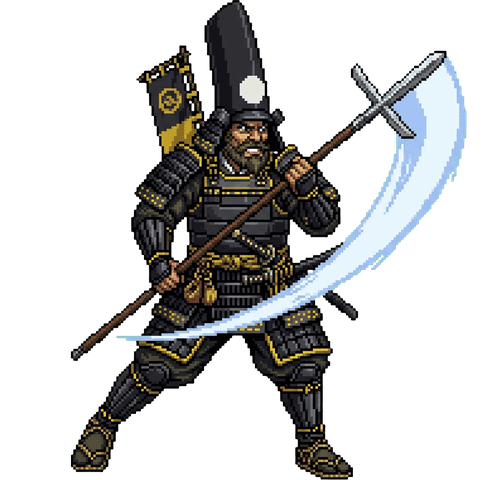
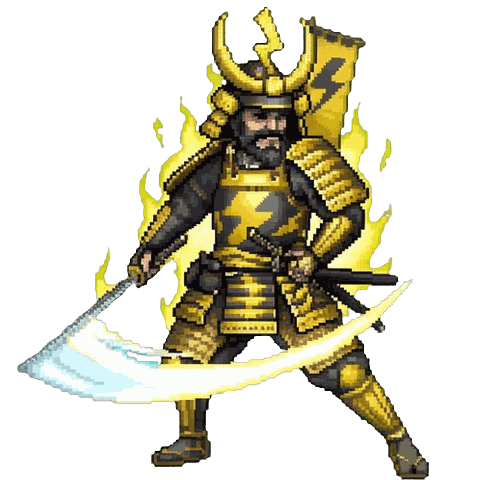
v192 이순신 새 장수 3명 그림 · 사방신·광개토대왕 기본 공격·큰 마법 동작

diff --git a/index.html b/index.html
@@ -26,7 +26,7 @@
 <link rel="stylesheet" href="https://fonts.googleapis.com/css2?family=Noto+Serif+KR:wght@900&text=%E6%A5%9A%E6%BC%A2%E8%BB%8A%E5%8C%85%E9%A6%AC%E8%B1%A1%E5%A3%AB%E5%8D%92%E5%85%B5&display=swap">
 <!--HEAD-END-->
 <!-- ?v= 숫자: 업데이트할 때마다 sw.js 의 VERSION 과 함께 1씩 올리기 (브라우저가 옛 파일을 쓰지 않도록) -->
-<link rel="stylesheet" href="css/style.css?v=191">
+<link rel="stylesheet" href="css/style.css?v=192">
 <!-- 앱 설치(PWA) -->
 <link rel="manifest" href="manifest.webmanifest">
 <meta name="theme-color" content="#161C3A">
@@ -99,8 +99,8 @@
       <input id="su-pw2" name="password2" type="password" autocomplete="new-password" required>
       <span class="lbl-like">기본 아바타 <small>나중에 상점에서 바꿀 수 있어요</small></span>
       <div class="gpick" id="suGender" role="radiogroup" aria-label="기본 아바타">
-        <button type="button" role="radio" aria-checked="false" data-g="m"><img src="avatar/body/s1_m_f.png?v=191" alt="" width="54" height="117"><b>남자</b></button>
-        <button type="button" role="radio" aria-checked="false" data-g="f"><img src="avatar/body/s1_f_f.png?v=191" alt="" width="53" height="115"><b>여자</b></button>
+        <button type="button" role="radio" aria-checked="false" data-g="m"><img src="avatar/body/s1_m_f.png?v=192" alt="" width="54" height="117"><b>남자</b></button>
+        <button type="button" role="radio" aria-checked="false" data-g="f"><img src="avatar/body/s1_f_f.png?v=192" alt="" width="53" height="115"><b>여자</b></button>
       </div>
       <p class="err" id="signupErr" hidden></p>
       <button class="btn btn-primary btn-block" type="submit">가입하고 시작하기</button>
@@ -123,91 +123,91 @@
 <!-- Supabase 연결 시 사용 (config.js가 비어 있으면 체험 모드) -->
 <script src="https://cdn.jsdelivr.net/npm/@supabase/supabase-js@2.117.3/dist/umd/supabase.js"></script>
 <!-- 순서 중요: 설정 → 공통 → 아바타 → 로그인/전적 → 게임(장르 폴더별 settings.js + game.js) → 화면 -->
-<script src="js/config.js?v=191"></script>
-<script src="games/common/shared.js?v=191"></script>
-<script src="avatar/avatar.js?v=191"></script>
-<script src="js/furniture.js?v=191"></script>
-<script src="js/filter.js?v=191"></script>
-<script src="js/gamehub.js?v=191"></script>
-<script src="js/banner.js?v=191"></script>
-<script src="js/presence.js?v=191"></script>
-<script src="games/puzzle/blocks/settings.js?v=191"></script>
-<script src="games/puzzle/blocks/game.js?v=191"></script>
-<script src="games/puzzle/battle/settings.js?v=191"></script>
-<script src="games/puzzle/battle/game.js?v=191"></script>
-<script src="games/puzzle/p512/settings.js?v=191"></script>
-<script src="games/puzzle/p512/game.js?v=191"></script>
-<script src="games/puzzle/ultimate/settings.js?v=191"></script>
-<script src="games/puzzle/ultimate/game.js?v=191"></script>
-<script src="games/puzzle/2048/settings.js?v=191"></script>
-<script src="games/puzzle/2048/game.js?v=191"></script>
-<script src="games/arcade/snake/settings.js?v=191"></script>
-<script src="games/arcade/snake/game.js?v=191"></script>
-<script src="games/arcade/dodge/settings.js?v=191"></script>
-<script src="games/arcade/dodge/game.js?v=191"></script>
-<script src="games/common/board.js?v=191"></script>
-<script src="games/board/baduk/settings.js?v=191"></script>
-<script src="games/board/baduk/game.js?v=191"></script>
-<script src="games/board/omok/settings.js?v=191"></script>
-<script src="games/board/omok/game.js?v=191"></script>
-<script src="games/board/janggi/settings.js?v=191"></script>
-<script src="games/board/janggi/game.js?v=191"></script>
-<script src="games/board/chess/settings.js?v=191"></script>
-<script src="games/board/chess/game.js?v=191"></script>
-<script src="games/board/alkkagi/settings.js?v=191"></script>
-<script src="games/board/alkkagi/game.js?v=191"></script>
-<script src="games/board/code/settings.js?v=191"></script>
-<script src="games/board/code/game.js?v=191"></script>
-<script src="games/sports/sport.js?v=191"></script>
-<script src="games/sports/volley/settings.js?v=191"></script>
-<script src="games/sports/volley/game.js?v=191"></script>
-<script src="games/sports/tennis/settings.js?v=191"></script>
-<script src="games/sports/tennis/game.js?v=191"></script>
-<script src="games/sports/fight/settings.js?v=191"></script>
-<script src="games/sports/fight/game.js?v=191"></script>
-<script src="games/action/mecha/settings.js?v=191"></script>
-<script src="games/action/mecha/game.js?v=191"></script>
-<script src="games/shooting/sky/settings.js?v=191"></script>
-<script src="games/shooting/sky/game.js?v=191"></script>
-<script src="games/study/common.js?v=191"></script>
-<script src="games/study/wordchain/settings.js?v=191"></script>
-<script src="games/study/wordchain/game.js?v=191"></script>
-<script src="games/study/typing/settings.js?v=191"></script>
-<script src="games/study/typing/game.js?v=191"></script>
-<script src="games/study/idiom/data.js?v=191"></script>
-<script src="games/study/idiom/settings.js?v=191"></script>
-<script src="games/study/idiom/game.js?v=191"></script>
-<script src="games/study/quiz.js?v=191"></script>
-<script src="games/study/english/data.js?v=191"></script>
-<script src="games/study/english/settings.js?v=191"></script>
-<script src="games/study/english/game.js?v=191"></script>
-<script src="games/study/history/data.js?v=191"></script>
-<script src="games/study/history/settings.js?v=191"></script>
-<script src="games/study/history/game.js?v=191"></script>
-<script src="games/study/gugu/settings.js?v=191"></script>
-<script src="games/study/gugu/game.js?v=191"></script>
-<script src="games/puzzle/mines/settings.js?v=191"></script>
-<script src="games/puzzle/mines/game.js?v=191"></script>
-<script src="games/action/rpg/data.js?v=191"></script>
-<script src="games/action/rpg/settings.js?v=191"></script>
-<script src="games/action/rpg/world.js?v=191"></script>
-<script src="games/action/rpg/room.js?v=191"></script>
-<script src="games/action/rpg/net.js?v=191"></script>
-<script src="games/action/rpg/fx.js?v=191"></script>
-<script src="games/action/rpg/vfx.js?v=191"></script>
-<script src="games/action/rpg/game.js?v=191"></script>
-<script src="games/action/scfight/settings.js?v=191"></script>
-<script src="games/action/scfight/game.js?v=191"></script>
-<script src="js/shop.js?v=191"></script>
-<script src="js/closet.js?v=191"></script>
-<script src="js/room.js?v=191"></script>
-<script src="js/social.js?v=191"></script>
-<script src="js/admin.js?v=191"></script>
-<script src="js/mapedit.js?v=191"></script>
-<script src="js/testgames.js?v=191"></script>
-<script src="js/updates.js?v=191"></script>
-<script src="js/fullscreen.js?v=191"></script>
-<script src="js/app.js?v=191"></script>
-<script src="js/pwa.js?v=191"></script>
+<script src="js/config.js?v=192"></script>
+<script src="games/common/shared.js?v=192"></script>
+<script src="avatar/avatar.js?v=192"></script>
+<script src="js/furniture.js?v=192"></script>
+<script src="js/filter.js?v=192"></script>
+<script src="js/gamehub.js?v=192"></script>
+<script src="js/banner.js?v=192"></script>
+<script src="js/presence.js?v=192"></script>
+<script src="games/puzzle/blocks/settings.js?v=192"></script>
+<script src="games/puzzle/blocks/game.js?v=192"></script>
+<script src="games/puzzle/battle/settings.js?v=192"></script>
+<script src="games/puzzle/battle/game.js?v=192"></script>
+<script src="games/puzzle/p512/settings.js?v=192"></script>
+<script src="games/puzzle/p512/game.js?v=192"></script>
+<script src="games/puzzle/ultimate/settings.js?v=192"></script>
+<script src="games/puzzle/ultimate/game.js?v=192"></script>
+<script src="games/puzzle/2048/settings.js?v=192"></script>
+<script src="games/puzzle/2048/game.js?v=192"></script>
+<script src="games/arcade/snake/settings.js?v=192"></script>
+<script src="games/arcade/snake/game.js?v=192"></script>
+<script src="games/arcade/dodge/settings.js?v=192"></script>
+<script src="games/arcade/dodge/game.js?v=192"></script>
+<script src="games/common/board.js?v=192"></script>
+<script src="games/board/baduk/settings.js?v=192"></script>
+<script src="games/board/baduk/game.js?v=192"></script>
+<script src="games/board/omok/settings.js?v=192"></script>
+<script src="games/board/omok/game.js?v=192"></script>
+<script src="games/board/janggi/settings.js?v=192"></script>
+<script src="games/board/janggi/game.js?v=192"></script>
+<script src="games/board/chess/settings.js?v=192"></script>
+<script src="games/board/chess/game.js?v=192"></script>
+<script src="games/board/alkkagi/settings.js?v=192"></script>
+<script src="games/board/alkkagi/game.js?v=192"></script>
+<script src="games/board/code/settings.js?v=192"></script>
+<script src="games/board/code/game.js?v=192"></script>
+<script src="games/sports/sport.js?v=192"></script>
+<script src="games/sports/volley/settings.js?v=192"></script>
+<script src="games/sports/volley/game.js?v=192"></script>
+<script src="games/sports/tennis/settings.js?v=192"></script>
+<script src="games/sports/tennis/game.js?v=192"></script>
+<script src="games/sports/fight/settings.js?v=192"></script>
+<script src="games/sports/fight/game.js?v=192"></script>
+<script src="games/action/mecha/settings.js?v=192"></script>
+<script src="games/action/mecha/game.js?v=192"></script>
+<script src="games/shooting/sky/settings.js?v=192"></script>
+<script src="games/shooting/sky/game.js?v=192"></script>
+<script src="games/study/common.js?v=192"></script>
+<script src="games/study/wordchain/settings.js?v=192"></script>
+<script src="games/study/wordchain/game.js?v=192"></script>
+<script src="games/study/typing/settings.js?v=192"></script>
+<script src="games/study/typing/game.js?v=192"></script>
+<script src="games/study/idiom/data.js?v=192"></script>
+<script src="games/study/idiom/settings.js?v=192"></script>
+<script src="games/study/idiom/game.js?v=192"></script>
+<script src="games/study/quiz.js?v=192"></script>
+<script src="games/study/english/data.js?v=192"></script>
+<script src="games/study/english/settings.js?v=192"></script>
+<script src="games/study/english/game.js?v=192"></script>
+<script src="games/study/history/data.js?v=192"></script>
+<script src="games/study/history/settings.js?v=192"></script>
+<script src="games/study/history/game.js?v=192"></script>
+<script src="games/study/gugu/settings.js?v=192"></script>
+<script src="games/study/gugu/game.js?v=192"></script>
+<script src="games/puzzle/mines/settings.js?v=192"></script>
+<script src="games/puzzle/mines/game.js?v=192"></script>
+<script src="games/action/rpg/data.js?v=192"></script>
+<script src="games/action/rpg/settings.js?v=192"></script>
+<script src="games/action/rpg/world.js?v=192"></script>
+<script src="games/action/rpg/room.js?v=192"></script>
+<script src="games/action/rpg/net.js?v=192"></script>
+<script src="games/action/rpg/fx.js?v=192"></script>
+<script src="games/action/rpg/vfx.js?v=192"></script>
+<script src="games/action/rpg/game.js?v=192"></script>
+<script src="games/action/scfight/settings.js?v=192"></script>
+<script src="games/action/scfight/game.js?v=192"></script>
+<script src="js/shop.js?v=192"></script>
+<script src="js/closet.js?v=192"></script>
+<script src="js/room.js?v=192"></script>
+<script src="js/social.js?v=192"></script>
+<script src="js/admin.js?v=192"></script>
+<script src="js/mapedit.js?v=192"></script>
+<script src="js/testgames.js?v=192"></script>
+<script src="js/updates.js?v=192"></script>
+<script src="js/fullscreen.js?v=192"></script>
+<script src="js/app.js?v=192"></script>
+<script src="js/pwa.js?v=192"></script>
 </body>
 </html>

diff --git a/games/action/rpg/data.js b/games/action/rpg/data.js
@@ -654,7 +654,7 @@
       return { id, name, pos: [cx, cy], kind, data: { w: W2, h: H2, region, t: grid(id, ex, kind), exits: ex, mons, pub: true, noBack: id === 'sx_v3', sx: kind, tex, art: kind === 'all' ? 'arena_sx_all' : kind === 'king' ? 'arena_sx_king' : GOD_ART.includes(kind) ? 'arena_sx_' + kind : null, rec: P ? P.lv : kind === 'king' ? 400 : kind === 'npc' ? 150 : 250, solo: true } };
     });
     const B = (name, img, el, imm, light, colors, say, skills) => ({ name, img, h: 150, el, immune: imm, light, shape: 'golem', colors, kind: 'boss', say, skills });
-    const SXF = k => ({ idle: 'sx_' + k, atk1: 'sx_' + k + '_atk', atk2: 'sx_' + k + '_atk', cast: 'sx_' + k + '_cast', hit: 'sx_' + k + '_hit' });   // v150 사방신 자세 그림 (Gemini · 공격·마법·맞음)
+    const SXF = k => ({ idle: 'sx_' + k, atk1: 'sx_' + k + '_atk', atk2: 'sx_' + k + '_atk', cast: 'sx_' + k + '_cast', hit: 'sx_' + k + '_hit', melee: 'sx_' + k + '_melee', cast2: 'sx_' + k + '_cast2' });   // v150 사방신 자세 그림 (Gemini · 공격·마법·맞음) · v192 기본 공격(melee)·큰 마법(cast2) 더함
     const boss = {
       cr: Object.assign(B('청룡', 'sx_cr', 'thunder', 'thunder', '#FFE45C', { a: '#2FBF8F', b: '#1A6A5A', c: '#9AE6FF', d: '#5AD8FF' }, '동쪽을 지키는 푸른 용이 눈을 떴다! (번개 힘은 통하지 않는다)', ['charge', 'ring', 'fan', 'slam', 'laser']),
         { bh: 380, float: true, base: 'sx_cr_pool', baseCol: '#5AD8FF', frames: SXF('cr') }),   // v150 선생님 그림 (11/15) · 2배 크기 · 둥실둥실 떠다님 + 발밑 소용돌이 물
@@ -668,7 +668,7 @@
         // v150 선생님 Gemini 그림 7장 (11/15) · 사방신과 같은 380px · 땅을 딛고 섬 · 칼(blades·charge·slam)=들기→내려치기 · 마법(ring·fan)=손 뻗기 · 걸을 때 두 장 번갈아 · 맞으면 잠깐 움찔
         bh: 380, aura: true, baseCol: '#FF4A3A', ax: 234 / 417, skCd: [0.9, 1.3], slamR: 195, slamCd: 0.7, bladeR: 70, bladeSpread: 1.4,   // v171 선생님 11/20: 범위 기술 쿨타임 더 짧게(1.5~2.2 → 0.9~1.3초 · 내려찍기 뒤 1.2 → 0.7초) · 범위 1.5배(내려찍기 130 → 195 · 칼비 46 → 70, 퍼지는 폭 1.4배)
         castAt: [0.39, 0.66], castCol: '#FF4A8A',
-        frames: { idle: 'sx_king_idle', walk: ['sx_king_walk1', 'sx_king_walk2'], atk1: 'sx_king_atk1', atk2: 'sx_king_atk2', cast: 'sx_king_cast', hit: 'sx_king_hit' } })   // v149 선생님 11/15: 넉백(움찔·밀어내기)은 안 걸림 · 상태 이상(불·느려짐·기절·저주)은 왕을 죽인 검을 끼면 걸림
+        frames: { idle: 'sx_king_idle', walk: ['sx_king_walk1', 'sx_king_walk2'], atk1: 'sx_king_atk1', atk2: 'sx_king_atk2', cast: 'sx_king_cast', hit: 'sx_king_hit', melee: 'sx_king_melee', cast2: 'sx_king_cast2' } })   // v149 선생님 11/15: 넉백(움찔·밀어내기)은 안 걸림 · 상태 이상(불·느려짐·기절·저주)은 왕을 죽인 검을 끼면 걸림
     };
     ['cr', 'jj', 'bh', 'hm'].forEach(k => { boss[k].fxQ = 0.25; });
     ['cr', 'jj', 'bh', 'hm', 'king'].forEach(k => { boss[k].noKnock = true; boss[k].hard = true; });   // v157 선생님 11/17: 사방신·광개토대왕 넉백(움찔·밀려남) 없음 · 더 어렵게(hard = 공격 빨리 · 마법 자주·많이 · 쿨타임 짧게, game.js bossSkill)   // v152 선생님 11/16: 사방신은 넉백·상태 이상이 1/4 만 걸림 (광개토대왕 noFx = 안 걸림 · 왕을 죽인 검을 끼면 1/4)

diff --git a/games/action/rpg/game.js b/games/action/rpg/game.js
@@ -2885,20 +2885,25 @@
       /* v150 지역 보스 9마리: Gemini 그림 4장 (기본·공격·마법·맞음) — 그림이 다 들어간 지역만 RB_ART 에 적음 */
       const RB_ART = P.RB_ART || [];
       const rbFrames = def => def && def.kind === 'boss' && def.ri != null && !def.dot && !def.img && !def.img79 && RB_ART.includes(def.ri) ? (def._rbF || (def._rbF = { idle: 'rb' + def.ri + '_idle', atk1: 'rb' + def.ri + '_atk', atk2: 'rb' + def.ri + '_atk', cast: 'rb' + def.ri + '_cast', hit: 'rb' + def.ri + '_hit' })) : null;
+      const BIG_CAST = { ring: 1, laser: 1, mines: 1, windwall: 1, whirl: 1, bomb: 1, realm: 1, hook: 1, barrage: 1 };
       function kingFrame(m, now, F) {
         F = F || m.def.frames; const c = m.cast;
-        if (!m._pre) { m._pre = 1; [F.idle, F.atk1, F.atk2, F.cast, F.hit].concat(F.walk || []).forEach(n => n && img79(n)); }
+        if (!m._pre) { m._pre = 1; [F.idle, F.atk1, F.atk2, F.cast, F.hit, F.melee, F.cast2].concat(F.walk || []).forEach(n => n && img79(n)); }
+        /* v192 선생님 11/23: 기본 공격·마법 공격 그림 더 넣음 — melee(돌진·박치기·순간이동·몸통 박치기) · cast2(큰 마법: 고리·레이저·지뢰·바람벽 …) · 그림이 없으면 예전대로 */
         let k = 'idle';
-        if (c && (c.k === 'blades' || c.k === 'charge')) k = c.t < 0.7 ? 'atk1' : 'atk2';
+        if (c && F.melee && (c.k === 'charge' || c.k === 'blink' || c.k === 'kick')) k = 'melee';
+        else if (c && (c.k === 'blades' || c.k === 'charge')) k = c.t < 0.7 ? 'atk1' : 'atk2';
         else if (m.slam) k = m.slam.t < 0.6 ? 'atk1' : 'atk2';
-        else if (c && (c.k === 'ring' || c.k === 'fan')) k = 'cast';
+        else if (c && F.cast2 && BIG_CAST[c.k]) k = 'cast2';
+        else if (c && (c.k === 'ring' || c.k === 'fan' || BIG_CAST[c.k])) k = 'cast';
+        else if (m.lunge > 0) k = F.melee ? 'melee' : 'atk2';
         else if (m._hold && now < m._hold.until) k = m._hold.k;
         else if (m.flash > 0 && now > (m._hitNext || 0)) { m._hitNext = now + 1400; m._hold = { k: 'hit', until: now + 220 }; k = 'hit'; }
         else {
           if (m._lx != null && Math.hypot(m.x - m._lx, m.y - m._ly) > 0.3) m._mvT = now;
           if (now - (m._mvT || -1e9) < 160) k = 'walk';
         }
-        if (k === 'atk2' || k === 'cast') m._hold = { k, until: now + 300 };
+        if (k === 'atk2' || k === 'cast' || k === 'melee' || k === 'cast2') m._hold = { k, until: now + 300 };
         m._lx = m.x; m._ly = m.y; m._fr = k;
         const n = k === 'walk' ? (F.walk ? F.walk[Math.floor(now / 260) % 2] : F.idle) : F[k] || F.idle;
         return img79(n) || img79(F.idle) || m.spr.img;

diff --git a/js/updates.js b/js/updates.js
@@ -98,6 +98,8 @@
     { g: 'rpg', at: '2026-11-23 22:15', t: '🗺 큰 지도: 광개토대왕·이순신 던전에서 보스·장수를 이긴 방에 ✖ 표시' },
     { g: 'rpg', at: '2026-11-23 22:25', t: '🎵 지역 음악: 저승·광개토대왕 던전·이순신 던전마다 새 배경음악 · 보스가 가까이 오면 보스 음악' },
     { g: 'rpg', at: '2026-11-23 22:40', t: '⚓ 이순신 던전 왜장 아홉이 3대 대첩 순서로 바뀌었어요: 한산(구키·가토 요시아키·구루시마 미치유키) → 명량(구루시마 미치후사·도도·간 미치나가) → 노량(소 요시토시·다치바나·시마즈)' },
+    { g: 'rpg', at: '2026-11-23 23:15', t: '🎌 이순신 던전 새 장수 그림: 간 미치나가(어둠)·소 요시토시(빛)·다치바나 무네시게(번개) — 이제 각자 자기 모습으로 싸워요' },
+    { g: 'rpg', at: '2026-11-23 23:15', t: '🐉 사방신·광개토대왕 새 동작: 청룡 물기·번개 숨결 / 주작 발톱·불꽃 숨결 / 백호 앞발·포효 / 현무 뱀 물기·물 소용돌이 / 대왕 옆베기·하늘 빛' },
   ];
   const MAX = 3, SHOW_MS = 5000, KEY = 'gogo.upd.';
   const NAMES = { shop: '상점', maker: '메이커', closet: '옷장' };

diff --git a/sw.js b/sw.js
@@ -2,7 +2,7 @@
  * gogo?gogo! 서비스 워커 — 앱 설치와 오프라인 플레이를 담당합니다.
  * 파일을 고친 뒤 배포할 때는 VERSION 숫자를 올려 주세요. (설치된 앱이 새 버전을 받습니다)
  */
-const VERSION = 'gogogogo-v191';
+const VERSION = 'gogogogo-v192';
 const SHELL = [
   './', './index.html', './manifest.webmanifest',
   './css/style.css',
